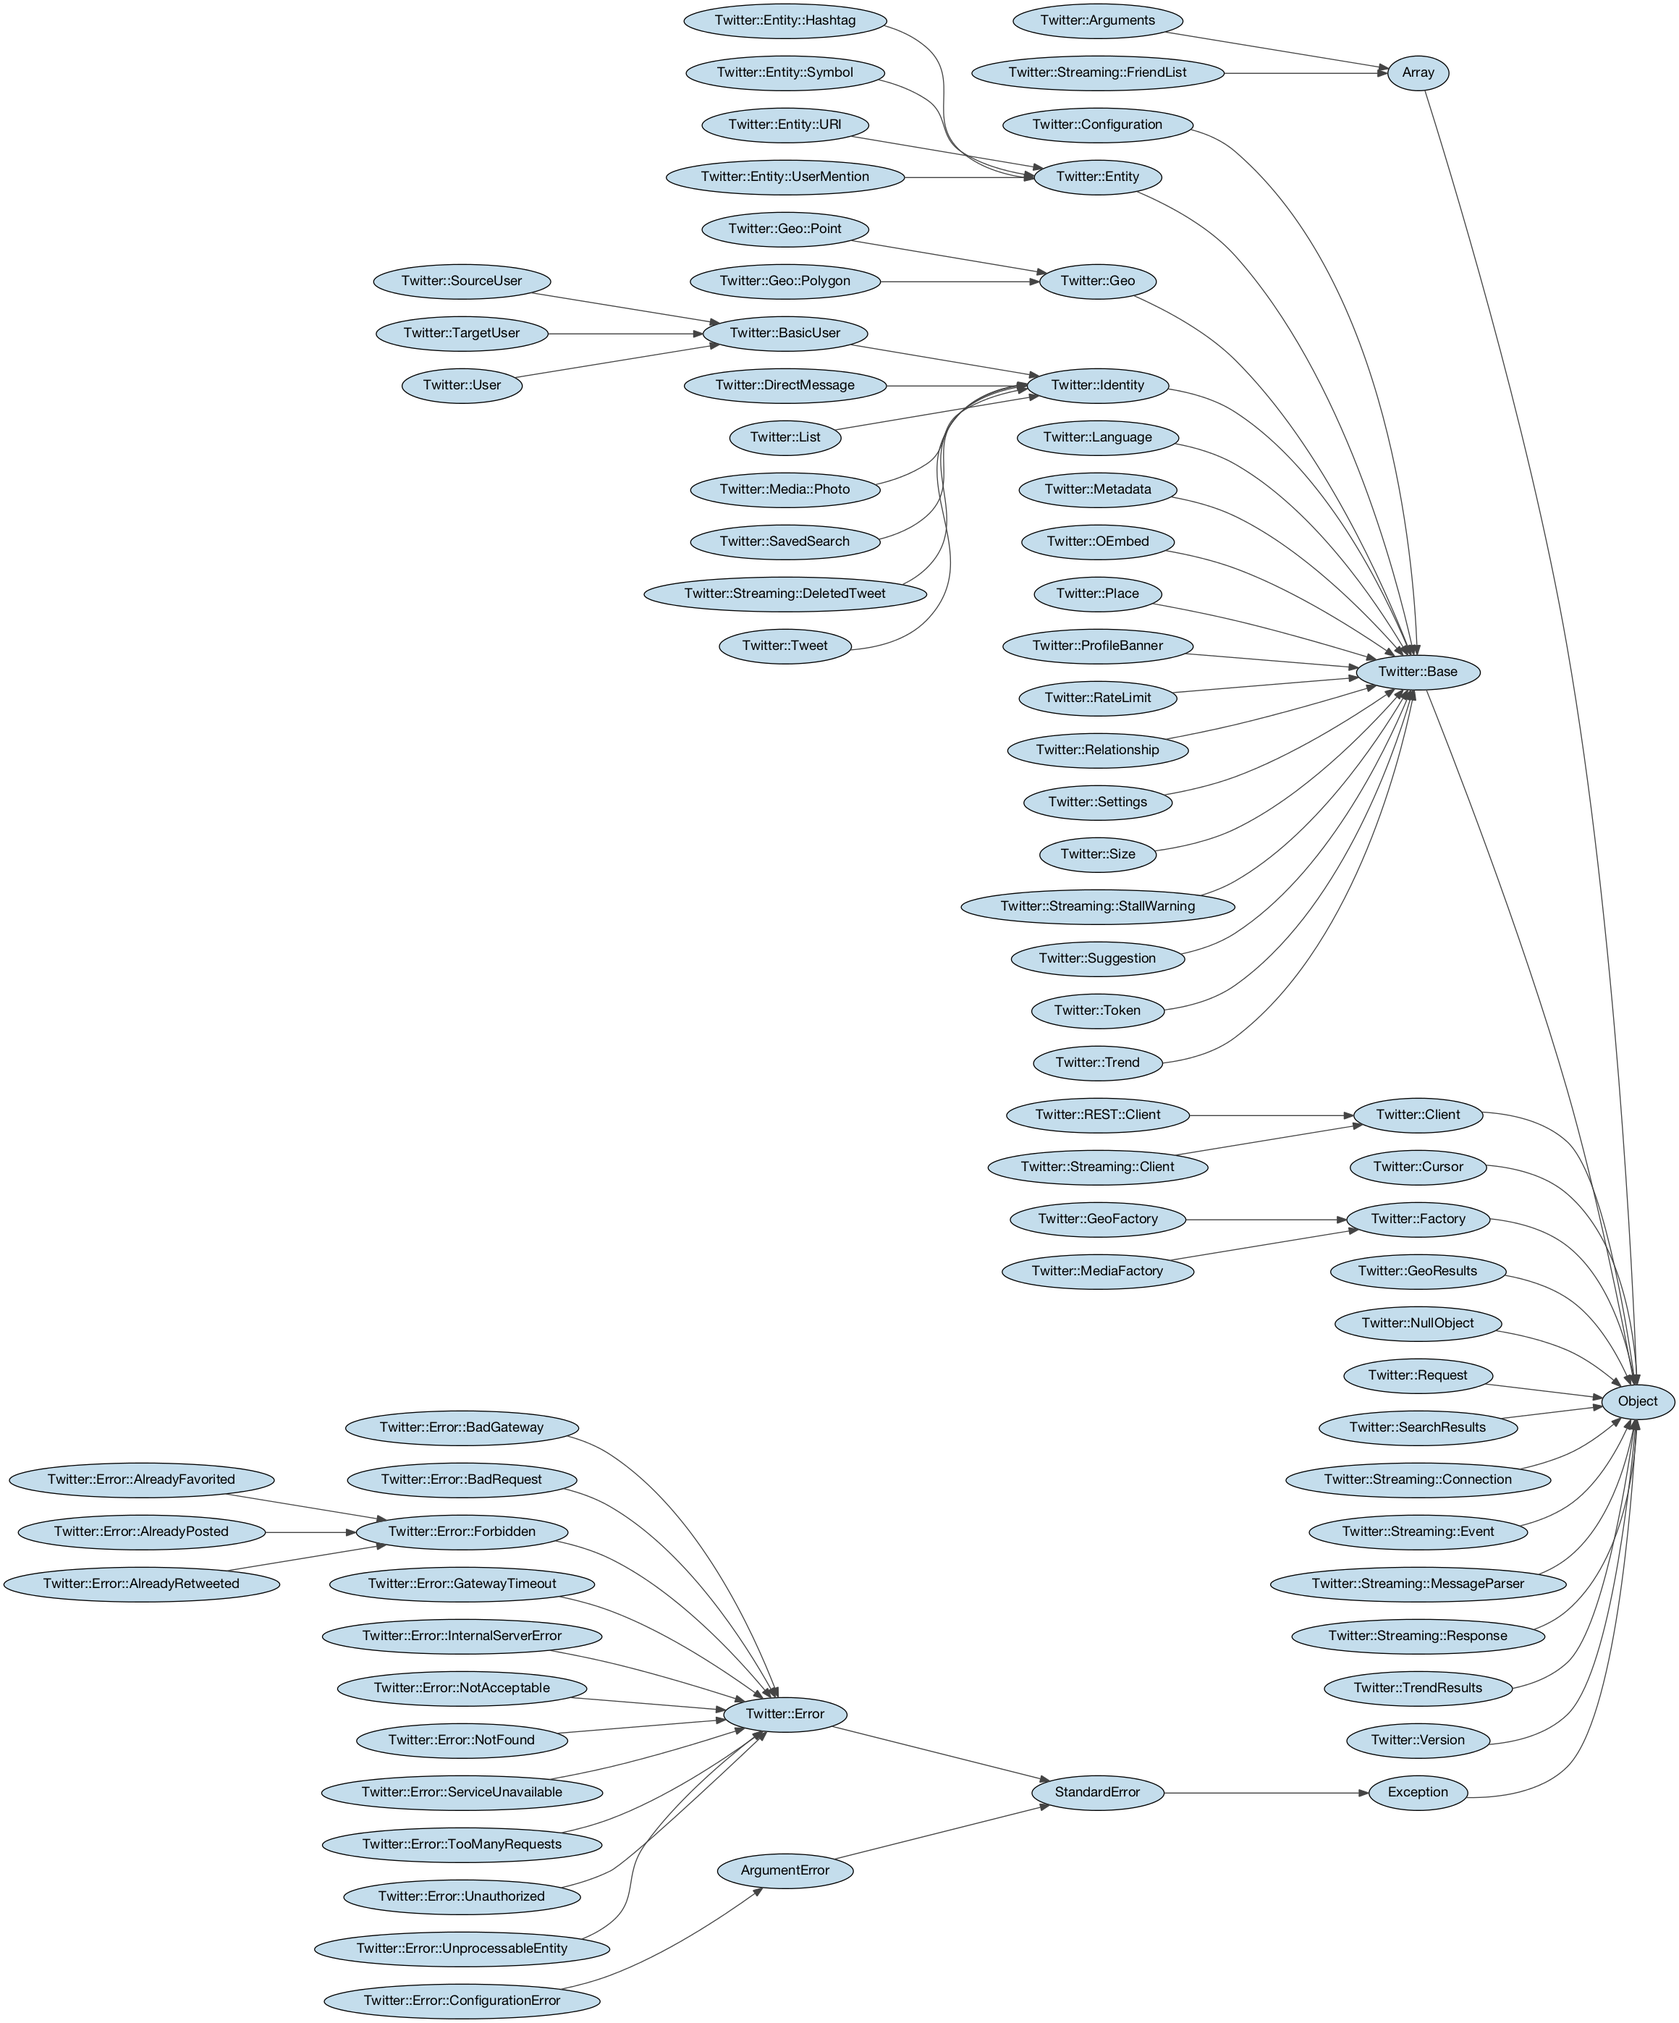
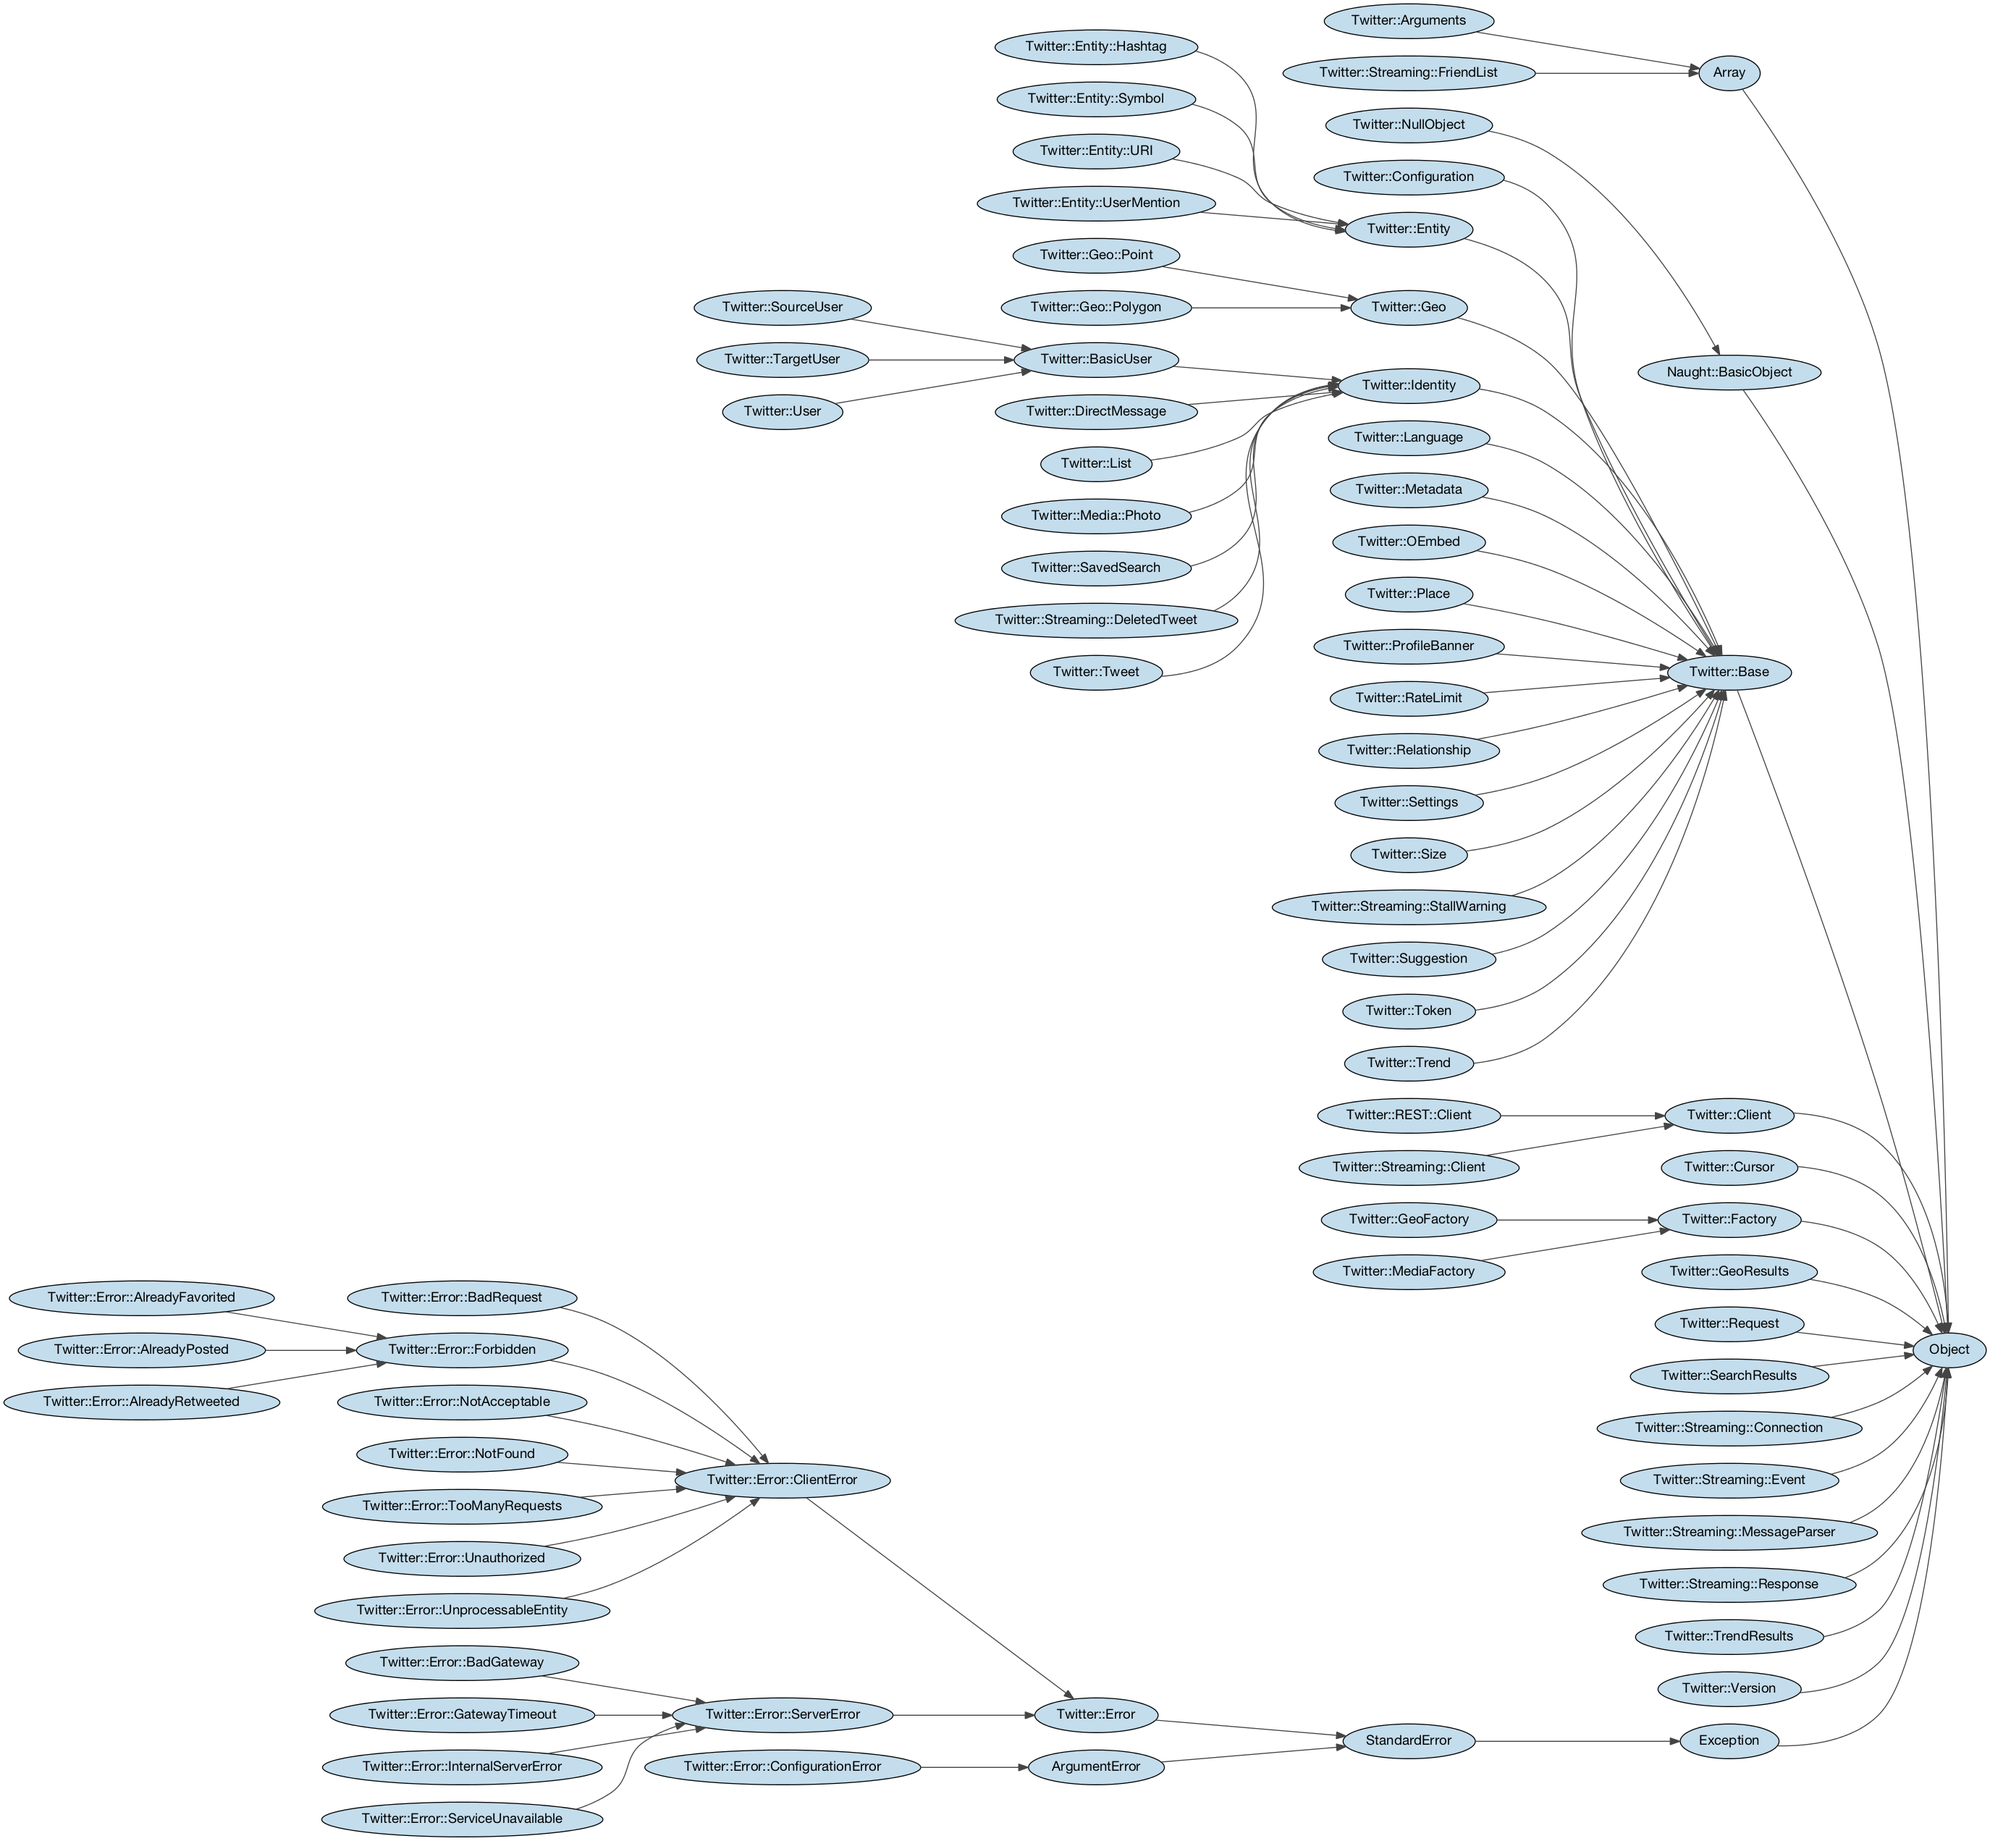
Refactor error handling code

diff --git a/lib/twitter/error.rb b/lib/twitter/error.rb
@@ -1,10 +1,8 @@
-require 'descendants_tracker'
 require 'twitter/rate_limit'
 
 module Twitter
   # Custom error class for rescuing from all Twitter errors
   class Error < StandardError
-    extend DescendantsTracker
     attr_reader :cause, :code, :rate_limit
     alias_method :wrapped_exception, :cause
 
@@ -36,16 +34,8 @@ module Twitter
       # @param response [HTTP::Response]
       # @return [Twitter::Error]
       def from_response(response)
-        error, code = parse_error(response.parse)
-        new(error, response.headers, code)
-      end
-
-      # @return [Hash]
-      def errors
-        @errors ||= descendants.inject({}) do |hash, klass|
-          hash[klass::HTTP_STATUS_CODE] = klass
-          hash
-        end
+        message, code = parse_error(response.parse)
+        new(message, response.headers, code)
       end
 
     private
@@ -76,11 +66,62 @@ module Twitter
     # @param response_headers [Hash]
     # @param code [Integer]
     # @return [Twitter::Error]
-    def initialize(exception = $ERROR_INFO, response_headers = {}, code = nil)
+    def initialize(message = '', response_headers = {}, code = nil)
+      @message = message
       @rate_limit = Twitter::RateLimit.new(response_headers)
-      @cause = exception
       @code = code
-      exception.respond_to?(:message) ? super(exception.message) : super(exception.to_s)
     end
+
+    class ConfigurationError < ::ArgumentError; end
+
+    # Raised when Twitter returns a 4xx HTTP status code
+    class ClientError < self; end
+
+    # Raised when Twitter returns the HTTP status code 400
+    class BadRequest < ClientError; end
+
+    # Raised when Twitter returns the HTTP status code 401
+    class Unauthorized < ClientError; end
+
+    # Raised when Twitter returns the HTTP status code 403
+    class Forbidden < ClientError; end
+
+    # Raised when a Tweet has already been favorited
+    class AlreadyFavorited < Forbidden; end
+
+    # Raised when a Tweet has already been posted
+    class AlreadyPosted < Forbidden; end
+
+    # Raised when a Tweet has already been retweeted
+    class AlreadyRetweeted < Forbidden; end
+
+    # Raised when Twitter returns the HTTP status code 404
+    class NotFound < ClientError; end
+
+    # Raised when Twitter returns the HTTP status code 406
+    class NotAcceptable < ClientError; end
+
+    # Raised when Twitter returns the HTTP status code 422
+    class UnprocessableEntity < ClientError; end
+
+    # Raised when Twitter returns the HTTP status code 429
+    class TooManyRequests < ClientError; end
+    EnhanceYourCalm = TooManyRequests # rubocop:disable ConstantName
+    RateLimited = TooManyRequests # rubocop:disable ConstantName
+
+    # Raised when Twitter returns a 5xx HTTP status code
+    class ServerError < self; end
+
+    # Raised when Twitter returns the HTTP status code 500
+    class InternalServerError < ServerError; end
+
+    # Raised when Twitter returns the HTTP status code 502
+    class BadGateway < ServerError; end
+
+    # Raised when Twitter returns the HTTP status code 503
+    class ServiceUnavailable < ServerError; end
+
+    # Raised when Twitter returns the HTTP status code 504
+    class GatewayTimeout < ServerError; end
   end
 end

diff --git a/lib/twitter/rest/client.rb b/lib/twitter/rest/client.rb
@@ -4,18 +4,6 @@ require 'json'
 require 'timeout'
 require 'twitter/client'
 require 'twitter/error'
-require 'twitter/error/bad_gateway'
-require 'twitter/error/bad_request'
-require 'twitter/error/configuration_error'
-require 'twitter/error/forbidden'
-require 'twitter/error/gateway_timeout'
-require 'twitter/error/internal_server_error'
-require 'twitter/error/not_acceptable'
-require 'twitter/error/not_found'
-require 'twitter/error/service_unavailable'
-require 'twitter/error/too_many_requests'
-require 'twitter/error/unauthorized'
-require 'twitter/error/unprocessable_entity'
 require 'twitter/rest/api/direct_messages'
 require 'twitter/rest/api/favorites'
 require 'twitter/rest/api/friends_and_followers'
@@ -85,16 +73,49 @@ module Twitter
 
     private
 
-      def request(method, path, params = {}, headers = {})
+      def request(method, path, params = {}, headers = {}) # rubocop:disable CyclomaticComplexity, MethodLength
         response = HTTP.with(headers).send(method, ENDPOINT + path, params)
-        if response.code != 200
-          error_class = Twitter::Error.errors[response.code]
-          error = error_class.new(response)
-          fail(error)
-        end
+        handle_exceptions(response)
         response.parse
       rescue JSON::ParserError
         response.to_s.empty? ? nil : response.to_s
+      end
+
+      def handle_exceptions(response)
+        case response.code
+        when 400
+          fail(Twitter::Error::BadRequest.from_response(response))
+        when 401
+          fail(Twitter::Error::Unauthorized.from_response(response))
+        when 403
+          error = Twitter::Error::Forbidden.from_response(response)
+          case error.message
+          when 'You have already favorited this status.'
+            fail(Twitter::Error::AlreadyFavorited.from_response(response))
+          when 'Status is a duplicate.'
+            fail(Twitter::Error::AlreadyPosted.from_response(response))
+          when 'sharing is not permissible for this status (Share validations failed)'
+            fail(Twitter::Error::AlreadyRetweeted.from_response(response))
+          else
+            fail(error)
+          end
+        when 404
+          fail(Twitter::Error::NotFound.from_response(response))
+        when 406
+          fail(Twitter::Error::NotAcceptable.from_response(response))
+        when 422
+          fail(Twitter::Error::UnprocessableEntity.from_response(response))
+        when 429
+          fail(Twitter::Error::TooManyRequests.from_response(response))
+        when 500
+          fail(Twitter::Error::InternalServerError.from_response(response))
+        when 501
+          fail(Twitter::Error::BadGateway.from_response(response))
+        when 502
+          fail(Twitter::Error::ServiceUnavailable.from_response(response))
+        when 503
+          fail(Twitter::Error::GatewayTimeout.from_response(response))
+        end
       end
 
       def auth_header(method, path, params = {}, signature_params = params)

diff --git a/lib/twitter/rest/api/tweets.rb b/lib/twitter/rest/api/tweets.rb
@@ -1,7 +1,5 @@
 require 'twitter/arguments'
-require 'twitter/error/already_posted'
-require 'twitter/error/already_retweeted'
-require 'twitter/error/forbidden'
+require 'twitter/error'
 require 'twitter/oembed'
 require 'twitter/request'
 require 'twitter/rest/api/utils'
@@ -124,8 +122,6 @@ module Twitter
           hash[:in_reply_to_status_id] = hash.delete(:in_reply_to_status).id unless hash[:in_reply_to_status].nil?
           hash[:place_id] = hash.delete(:place).woeid unless hash[:place].nil?
           perform_with_object(:post, '/1.1/statuses/update.json', hash.merge(:status => status), Twitter::Tweet)
-        rescue Twitter::Error::Forbidden => error
-          handle_forbidden_error(Twitter::Error::AlreadyPosted, error)
         end
 
         # Retweets the specified Tweets as the authenticating user
@@ -146,8 +142,8 @@ module Twitter
           parallel_map(arguments) do |tweet|
             begin
               post_retweet(extract_id(tweet), arguments.options)
-            rescue Twitter::Error::Forbidden => error
-              raise unless error.message == Twitter::Error::AlreadyRetweeted::MESSAGE
+            rescue Twitter::Error::AlreadyRetweeted
+              next
             end
           end.compact
         end
@@ -169,11 +165,7 @@ module Twitter
         def retweet!(*args)
           arguments = Twitter::Arguments.new(args)
           parallel_map(arguments) do |tweet|
-            begin
-              post_retweet(extract_id(tweet), arguments.options)
-            rescue Twitter::Error::Forbidden => error
-              handle_forbidden_error(Twitter::Error::AlreadyRetweeted, error)
-            end
+            post_retweet(extract_id(tweet), arguments.options)
           end.compact
         end
 
@@ -202,8 +194,6 @@ module Twitter
           hash[:in_reply_to_status_id] = hash.delete(:in_reply_to_status).id unless hash[:in_reply_to_status].nil?
           hash[:place_id] = hash.delete(:place).woeid unless hash[:place].nil?
           perform_with_object(:post, '/1.1/statuses/update_with_media.json', hash.merge('media[]' => media, 'status' => status), Twitter::Tweet)
-        rescue Twitter::Error::Forbidden => error
-          handle_forbidden_error(Twitter::Error::AlreadyPosted, error)
         end
 
         # Returns oEmbed for a Tweet

diff --git a/lib/twitter/rest/api/favorites.rb b/lib/twitter/rest/api/favorites.rb
@@ -1,6 +1,5 @@
 require 'twitter/arguments'
-require 'twitter/error/already_favorited'
-require 'twitter/error/forbidden'
+require 'twitter/error'
 require 'twitter/request'
 require 'twitter/rest/api/utils'
 require 'twitter/tweet'
@@ -73,8 +72,8 @@ module Twitter
           parallel_map(arguments) do |tweet|
             begin
               perform_with_object(:post, '/1.1/favorites/create.json', arguments.options.merge(:id => extract_id(tweet)), Twitter::Tweet)
-            rescue Twitter::Error::Forbidden => error
-              raise unless error.message == Twitter::Error::AlreadyFavorited::MESSAGE
+            rescue Twitter::Error::AlreadyFavorited
+              next
             end
           end.compact
         end
@@ -98,11 +97,7 @@ module Twitter
         def favorite!(*args)
           arguments = Twitter::Arguments.new(args)
           parallel_map(arguments) do |tweet|
-            begin
-              perform_with_object(:post, '/1.1/favorites/create.json', arguments.options.merge(:id => extract_id(tweet)), Twitter::Tweet)
-            rescue Twitter::Error::Forbidden => error
-              handle_forbidden_error(Twitter::Error::AlreadyFavorited, error)
-            end
+            perform_with_object(:post, '/1.1/favorites/create.json', arguments.options.merge(:id => extract_id(tweet)), Twitter::Tweet)
           end
         end
         alias_method :create_favorite!, :favorite!

diff --git a/lib/twitter/client.rb b/lib/twitter/client.rb
@@ -54,12 +54,12 @@ module Twitter
     # Ensures that all credentials set during configuration are of a
     # valid type. Valid types are String and Symbol.
     #
-    # @raise [Twitter::Error::ConfigurationError] Error is raised when
+    # @raise [Twitter::ConfigurationError] Error is raised when
     #   supplied twitter credentials are not a String or Symbol.
     def validate_credential_type!
       credentials.each do |credential, value|
         next if value.nil?
-        fail(Error::ConfigurationError.new("Invalid #{credential} specified: #{value.inspect} must be a string or symbol.")) unless value.is_a?(String) || value.is_a?(Symbol)
+        fail(Twitter::Error::ConfigurationError.new("Invalid #{credential} specified: #{value.inspect} must be a string or symbol.")) unless value.is_a?(String) || value.is_a?(Symbol)
       end
     end
 

diff --git a/lib/twitter/rest/api/utils.rb b/lib/twitter/rest/api/utils.rb
@@ -115,11 +115,6 @@ module Twitter
           perform_with_cursor(request_method, path, arguments.options, collection_name, klass)
         end
 
-        def handle_forbidden_error(klass, error)
-          error = klass.new(error) if error.message == klass::MESSAGE
-          fail(error)
-        end
-
         def screen_name
           @screen_name ||= verify_credentials.screen_name
         end

diff --git a/lib/twitter/rest/api/lists.rb b/lib/twitter/rest/api/lists.rb
@@ -1,7 +1,6 @@
 require 'twitter/arguments'
 require 'twitter/cursor'
-require 'twitter/error/forbidden'
-require 'twitter/error/not_found'
+require 'twitter/error'
 require 'twitter/list'
 require 'twitter/request'
 require 'twitter/rest/api/utils'

diff --git a/spec/helper.rb b/spec/helper.rb
@@ -8,7 +8,7 @@ SimpleCov.formatter = SimpleCov::Formatter::MultiFormatter[
 
 SimpleCov.start do
   add_filter '/spec/'
-  minimum_coverage(99.42)
+  minimum_coverage(98.73)
 end
 
 require 'twitter'

diff --git a/lib/twitter/rest/api/users.rb b/lib/twitter/rest/api/users.rb
@@ -1,5 +1,5 @@
 require 'twitter/arguments'
-require 'twitter/error/not_found'
+require 'twitter/error'
 require 'twitter/profile_banner'
 require 'twitter/request'
 require 'twitter/rest/api/utils'

diff --git a/lib/twitter/rest/api/friends_and_followers.rb b/lib/twitter/rest/api/friends_and_followers.rb
@@ -1,6 +1,5 @@
 require 'twitter/arguments'
 require 'twitter/cursor'
-require 'twitter/error/forbidden'
 require 'twitter/relationship'
 require 'twitter/request'
 require 'twitter/rest/api/utils'
